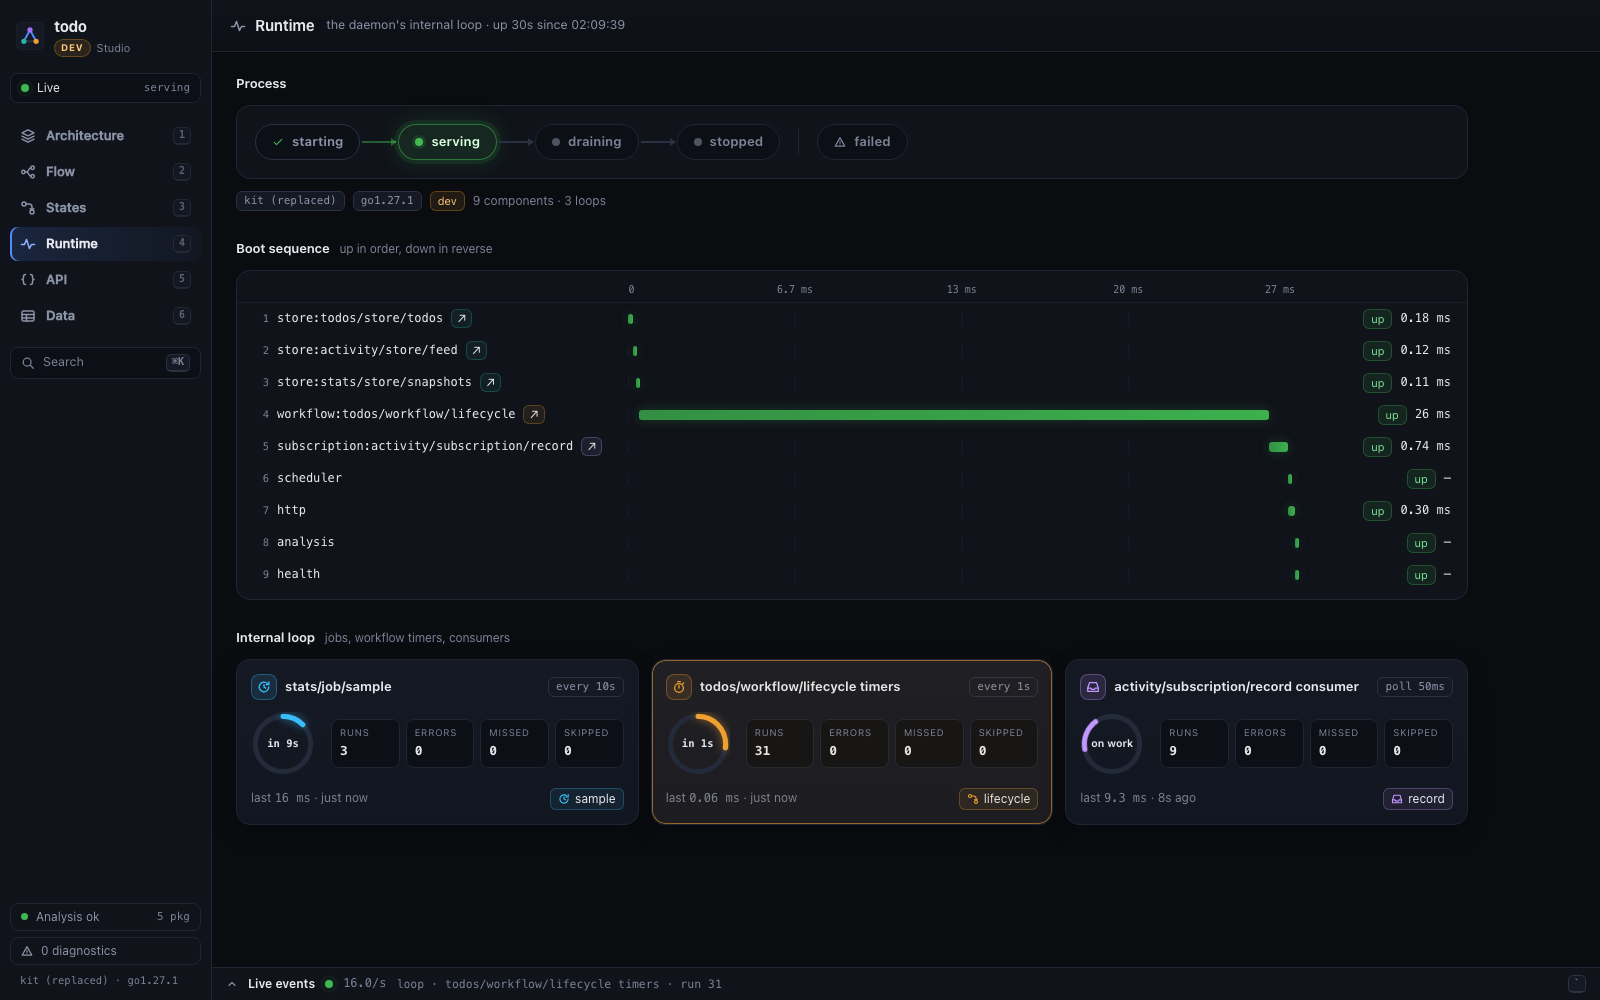
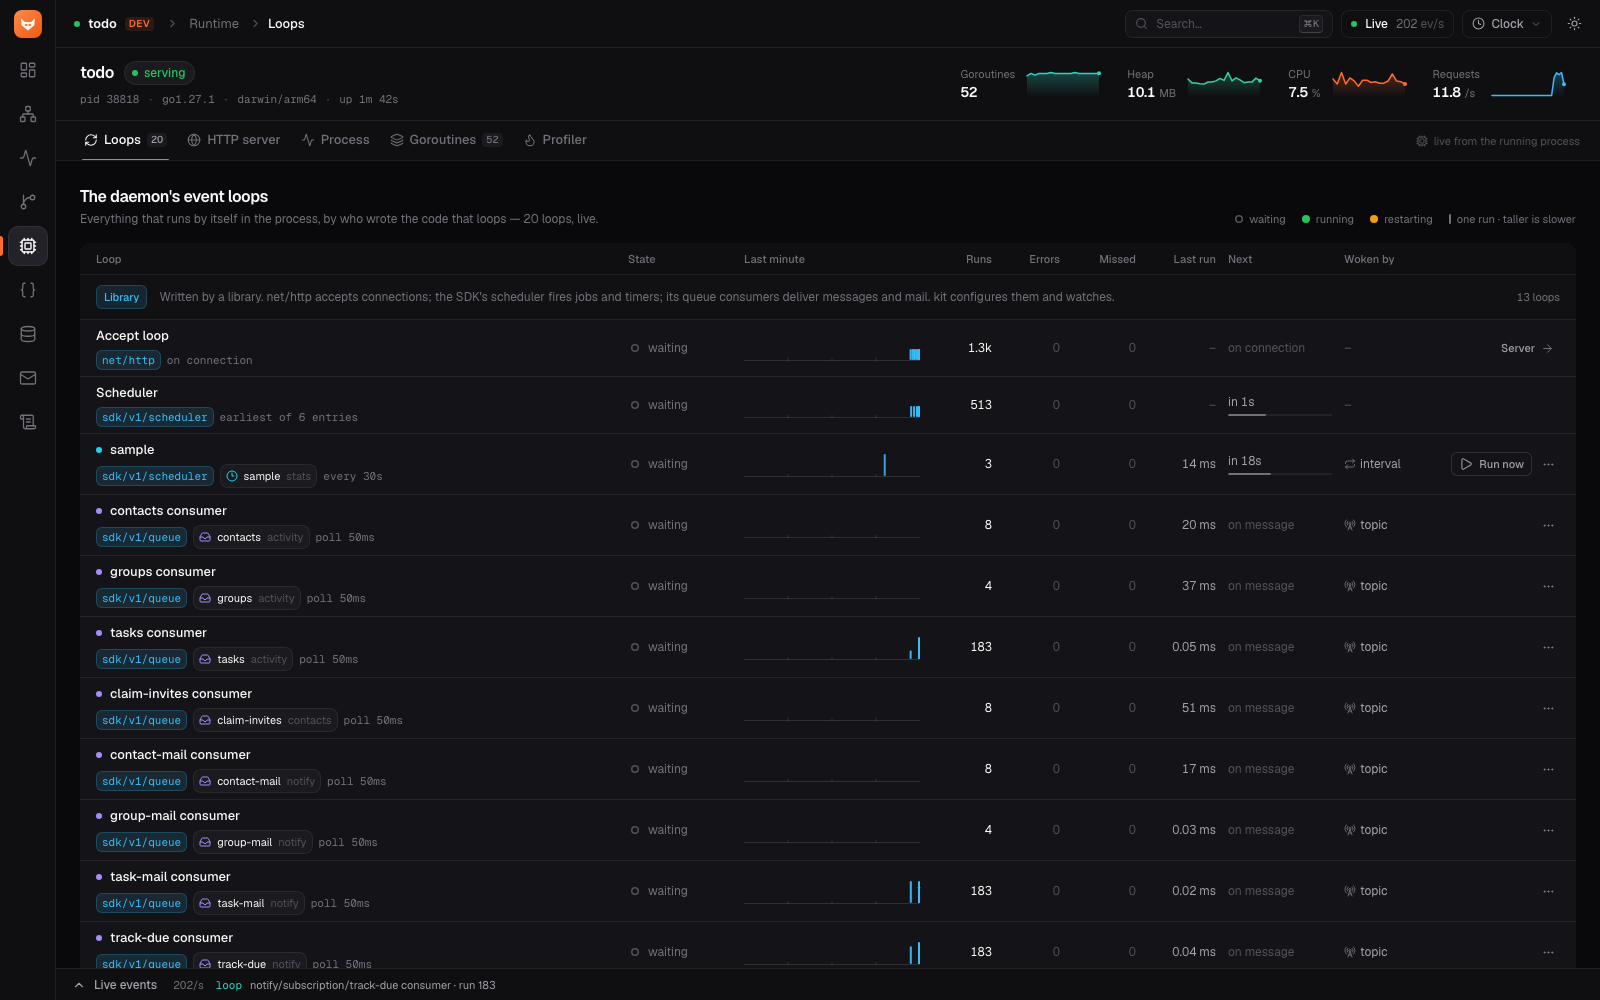
docs: screenshots of the todo v2 and its Studio
The app (Today, a task) and the Studio against the running product: the
four C4 levels, a request as a sequence diagram, a workflow, the daemon,
its loops by who wrote them, the HTTP server, the mailbox and the
overview.

diff --git a/README.md b/README.md
@@ -12,7 +12,9 @@ list. Everyone concerned hears about it — in their activity feed, and by mail:
 a verification link, a password reset, contact requests, invitations, shared
 and assigned tasks, and a reminder fifteen minutes before a task is due.
 
-![The todo](docs/app.png)
+| Today | A task |
+|---|---|
+| ![Today](docs/app.png) | ![A task](docs/app-task.png) |
 
 ## Eight services, one binary
 
@@ -39,11 +41,19 @@ its context, its containers, its services and their building blocks, the code
 of each, every request as a trace, the workflows and their populations, the
 daemon's loops, and the mails it sent.
 
-| Architecture | Flow of a request |
+| **Context** — who uses the product, what it talks to (C4 level 1) | **Infrastructure** — its containers, and inside the process (C4 level 2) |
 |---|---|
-| ![Architecture](docs/studio-architecture.png) | ![Flow](docs/studio-flow.png) |
-| **States** — the workflows, with their live population | **Runtime** — the daemon's loops |
-| ![States](docs/studio-states.png) | ![Runtime](docs/studio-runtime.png) |
+| ![Context](docs/studio-context.png) | ![Infrastructure](docs/studio-infrastructure.png) |
+| **Domain** — the bounded contexts and how they talk (C4 level 3) | **Code** — what a node runs, what it touches (C4 level 4) |
+| ![Domain](docs/studio-domain.png) | ![Code](docs/studio-code.png) |
+| **Requests** — every request as a sequence of the nodes it crossed | **States** — a workflow, its population and its instances |
+| ![Requests](docs/studio-requests.png) | ![States](docs/studio-states.png) |
+| **The daemon** — its phases and its boot sequence | **Runtime** — every loop, by who wrote it: a library, kit, or the product |
+| ![Daemon](docs/studio-daemon.png) | ![Runtime](docs/studio-runtime.png) |
+| **The HTTP server** — net/http's accept loop and the middleware | **Mail** — every mail the product sent, in dev |
+| ![HTTP server](docs/studio-http.png) | ![Mail](docs/studio-mail.png) |
+| **Overview** — health, traffic, what needs a look | |
+| ![Overview](docs/studio-overview.png) | |
 
 Generated by `go run . graph -format mermaid`. Solid arrows exist by
 construction; dashed ones were found in the code by the static analysis. In
